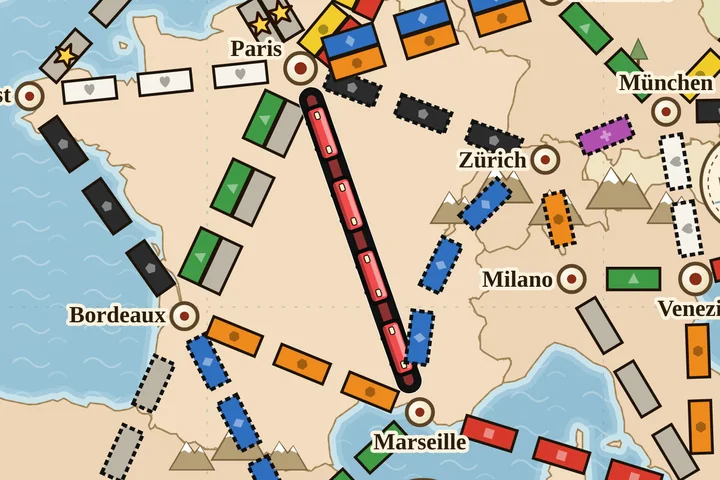
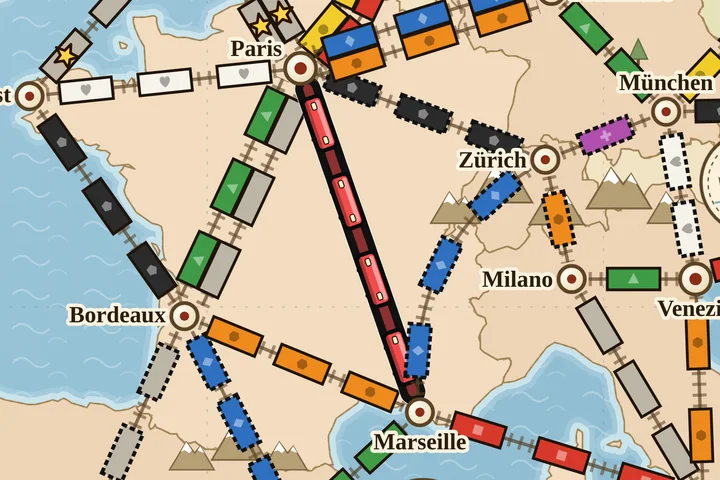
Đường Ray: tuyến nối liền từ thành phố đến thành phố (đường ray nền, ô dàn đều), chụp lại ảnh luật
Claude-Session: https://claude.ai/code/session_01C6iMujCmX6wKKq45Tr3EAE

diff --git a/games/duong-ray-chau-au/luat.html b/games/duong-ray-chau-au/luat.html
@@ -122,7 +122,7 @@ footer{text-align:center;color:#e9d6ae;font-size:14px;margin-top:10px}
 <p>Bạn và các đối thủ thi nhau xây mạng lưới đường sắt khắp châu Âu. Mỗi lượt bạn gom bài toa tàu cùng màu để chiếm các tuyến nối giữa hai thành phố, ghi điểm ngay khi chiếm. Bạn còn giữ các <b>vé hành trình</b>: nối được hai thành phố trên vé bằng tàu của mình thì cộng điểm, không nối được thì bị trừ.</p>
 <p>Bản đồ châu Âu có <b>49 thành phố</b>, 106 làn tuyến (trong đó 12 cặp đường đôi), <b>10 đường hầm</b> và <b>15 tuyến phà</b>. Tuyến dài nhất dài 5 ô.</p>
 
-<img class="shot" src="assets/rules/ui.webp?v=7" alt="Màn hình chơi Đường Ray Châu Âu" loading="lazy">
+<img class="shot" src="assets/rules/ui.webp?v=8" alt="Màn hình chơi Đường Ray Châu Âu" loading="lazy">
 <p class="cap">Màn hình chơi: người chơi ở trên, bản đồ ở giữa, bên phải là chỗ lấy bài, vé của bạn và nhật ký.</p></section><section class="box" id="thanh-phan"><h2><span class="no">2</span>Thành phần</h2>
 <div class="tw"><table class="t">
 <tr><th>Thành phần</th><th>Số lượng và công dụng</th></tr>
@@ -193,18 +193,18 @@ footer{text-align:center;color:#e9d6ae;font-size:14px;margin-top:10px}
 </ul>
 <div class="pts" style="--n:5"><div><span class="len"><i></i></span><b>1 ô</b><strong>1</strong><b>điểm</b></div><div><span class="len"><i></i><i></i></span><b>2 ô</b><strong>2</strong><b>điểm</b></div><div><span class="len"><i></i><i></i><i></i></span><b>3 ô</b><strong>4</strong><b>điểm</b></div><div><span class="len"><i></i><i></i><i></i><i></i></span><b>4 ô</b><strong>7</strong><b>điểm</b></div><div><span class="len"><i></i><i></i><i></i><i></i><i></i></span><b>5 ô</b><strong>10</strong><b>điểm</b></div></div>
 <div class="fig">
-  <div><img class="shot" src="assets/rules/claim.webp?v=7" alt="" loading="lazy"><p class="cap">Tuyến Paris–Marseille (Tím, 4 ô) đã bị chiếm: đoàn tàu của người chơi Đỏ nằm đè lên tuyến.</p></div>
+  <div><img class="shot" src="assets/rules/claim.webp?v=8" alt="" loading="lazy"><p class="cap">Tuyến Paris–Marseille (Tím, 4 ô) đã bị chiếm: đoàn tàu của người chơi Đỏ nằm đè lên tuyến.</p></div>
   <div class="vd" style="margin:0">Để chiếm tuyến Paris–Marseille màu Tím dài 4 ô, bạn đánh 3 lá Tím và 1 Đầu máy. Bạn đặt 4 toa, ghi ngay 7 điểm và còn 41 toa.
   <div class="hand"><figure class="tc sm"><img src="../../railart/cards/purple.webp" alt="Tím" loading="lazy"></figure><figure class="tc sm"><img src="../../railart/cards/purple.webp" alt="Tím" loading="lazy"></figure><figure class="tc sm"><img src="../../railart/cards/purple.webp" alt="Tím" loading="lazy"></figure><figure class="tc sm"><img src="../../railart/cards/loco.webp" alt="Đầu máy" loading="lazy"></figure></div></div>
 </div>
 <div class="fig">
-  <div><img class="shot" src="assets/rules/gray.webp?v=7" alt="" loading="lazy"><p class="cap">Tuyến xám Amsterdam–Frankfurt dài 2 ô.</p></div>
+  <div><img class="shot" src="assets/rules/gray.webp?v=8" alt="" loading="lazy"><p class="cap">Tuyến xám Amsterdam–Frankfurt dài 2 ô.</p></div>
   <div class="vd" style="margin:0">Tuyến xám Amsterdam–Frankfurt dài 2 ô trả bằng 2 lá Vàng, hoặc 2 lá Đen… miễn cùng một màu. Không được trả 1 lá Vàng + 1 lá Đen.
   <div class="hand"><span class="lbl">Được:</span><figure class="tc sm"><img src="../../railart/cards/yellow.webp" alt="Vàng" loading="lazy"></figure><figure class="tc sm"><img src="../../railart/cards/yellow.webp" alt="Vàng" loading="lazy"></figure></div></div>
 </div>
 <h4 style="margin:14px 0 4px;color:#7a1a36;font-size:19px">Đường đôi</h4>
 <div class="fig">
-  <div><img class="shot" src="assets/rules/dbl.webp?v=7" alt="" loading="lazy"><p class="cap">Đường đôi Madrid–Barcelona: hai làn song song, làn Trắng và làn Đỏ.</p></div>
+  <div><img class="shot" src="assets/rules/dbl.webp?v=8" alt="" loading="lazy"><p class="cap">Đường đôi Madrid–Barcelona: hai làn song song, làn Trắng và làn Đỏ.</p></div>
   <div><ul>
    <li>Một người <b>không được chiếm cả hai làn</b> của cùng một đường đôi.</li>
    <li>Chơi <b>2 hoặc 3 người</b>: một làn đã bị chiếm thì làn còn lại đóng với mọi người.</li>
@@ -214,7 +214,7 @@ footer{text-align:center;color:#e9d6ae;font-size:14px;margin-top:10px}
 
 <h3 id="duong-ham">Đường hầm</h3>
 <div class="fig">
-  <div><img class="shot" src="assets/rules/tunnel.webp?v=7" alt="" loading="lazy"><p class="cap">Đường hầm có viền <b>nét đứt</b>, ví dụ tuyến Barcelona–Bordeaux (Xanh dương, 3 ô).</p></div>
+  <div><img class="shot" src="assets/rules/tunnel.webp?v=8" alt="" loading="lazy"><p class="cap">Đường hầm có viền <b>nét đứt</b>, ví dụ tuyến Barcelona–Bordeaux (Xanh dương, 3 ô).</p></div>
   <div><ol>
    <li>Đánh bộ bài như chiếm tuyến thường.</li>
    <li>Máy lật <b>3 lá</b> trên cùng chồng bài úp.</li>
@@ -234,7 +234,7 @@ footer{text-align:center;color:#e9d6ae;font-size:14px;margin-top:10px}
 
 <h3 id="pha">Phà</h3>
 <div class="fig">
-  <div><img class="shot" src="assets/rules/ferry.webp?v=7" alt="" loading="lazy"><p class="cap">Tuyến phà London–Amsterdam dài 2 ô, có 2 ô in <b>ngôi sao Đầu máy</b>.</p></div>
+  <div><img class="shot" src="assets/rules/ferry.webp?v=8" alt="" loading="lazy"><p class="cap">Tuyến phà London–Amsterdam dài 2 ô, có 2 ô in <b>ngôi sao Đầu máy</b>.</p></div>
   <div><ul>
    <li>Phà là tuyến vượt biển. Mỗi ô có ngôi sao cần <b>1 lá Đầu máy</b>.</li>
    <li>Các ô còn lại trả bằng bài cùng một màu (phà luôn là tuyến xám).</li>
@@ -250,7 +250,7 @@ footer{text-align:center;color:#e9d6ae;font-size:14px;margin-top:10px}
 
 <h3 id="nha-ga">Việc 4: xây nhà ga</h3>
 <div class="fig">
-  <div><img class="shot" src="assets/rules/station.webp?v=7" alt="" loading="lazy"><p class="cap">Nhà ga Đỏ ở Lisboa. Tuyến Lisboa–Madrid là của người Xanh, hai tuyến Đỏ nằm hai bên.</p></div>
+  <div><img class="shot" src="assets/rules/station.webp?v=8" alt="" loading="lazy"><p class="cap">Nhà ga Đỏ ở Lisboa. Tuyến Lisboa–Madrid là của người Xanh, hai tuyến Đỏ nằm hai bên.</p></div>
   <div><ul>
    <li>Đặt nhà ga lên một thành phố <b>chưa có ga</b> nào. Không cần có tuyến của bạn ở đó.</li>
    <li>Giá tăng dần: ga thứ 1 tốn <b>1 lá</b>, ga thứ 2 tốn <b>2 lá cùng màu</b>, ga thứ 3 tốn <b>3 lá cùng màu</b>. Đầu máy thay được.</li>

diff --git a/games/duong-ray-bac-my/luat.html b/games/duong-ray-bac-my/luat.html
@@ -122,7 +122,7 @@ footer{text-align:center;color:#e9d6ae;font-size:14px;margin-top:10px}
 <p>Bạn và các đối thủ thi nhau xây mạng lưới đường sắt khắp Bắc Mỹ. Mỗi lượt bạn gom bài toa tàu cùng màu để chiếm các tuyến nối giữa hai thành phố, ghi điểm ngay khi chiếm. Bạn còn giữ các <b>vé hành trình</b>: nối được hai thành phố trên vé bằng tàu của mình thì cộng điểm, không nối được thì bị trừ.</p>
 <p>Bản đồ Bắc Mỹ có <b>39 thành phố</b>, 104 làn tuyến (trong đó 21 cặp đường đôi), <b>9 đường hầm</b> và <b>2 tuyến phà</b>. Tuyến dài nhất dài 7 ô.</p>
 <div class="note"><b>Khác với hộp Ticket to Ride USA gốc:</b> bản Bắc Mỹ trên web dùng chung bộ luật đầy đủ với bản Châu Âu, nên vẫn có đường hầm và phà (sang La Habana), nhưng <b>không có nhà ga</b>. Mỗi người nhận 1 vé dài và 3 vé thường lúc đầu.</div>
-<img class="shot" src="assets/rules/ui.webp?v=7" alt="Màn hình chơi Đường Ray Bắc Mỹ" loading="lazy">
+<img class="shot" src="assets/rules/ui.webp?v=8" alt="Màn hình chơi Đường Ray Bắc Mỹ" loading="lazy">
 <p class="cap">Màn hình chơi: người chơi ở trên, bản đồ ở giữa, bên phải là chỗ lấy bài, vé của bạn và nhật ký.</p></section><section class="box" id="thanh-phan"><h2><span class="no">2</span>Thành phần</h2>
 <div class="tw"><table class="t">
 <tr><th>Thành phần</th><th>Số lượng và công dụng</th></tr>
@@ -166,18 +166,18 @@ footer{text-align:center;color:#e9d6ae;font-size:14px;margin-top:10px}
 </ul>
 <div class="pts" style="--n:7"><div><span class="len"><i></i></span><b>1 ô</b><strong>1</strong><b>điểm</b></div><div><span class="len"><i></i><i></i></span><b>2 ô</b><strong>2</strong><b>điểm</b></div><div><span class="len"><i></i><i></i><i></i></span><b>3 ô</b><strong>4</strong><b>điểm</b></div><div><span class="len"><i></i><i></i><i></i><i></i></span><b>4 ô</b><strong>7</strong><b>điểm</b></div><div><span class="len"><i></i><i></i><i></i><i></i><i></i></span><b>5 ô</b><strong>10</strong><b>điểm</b></div><div><span class="len"><i></i><i></i><i></i><i></i><i></i><i></i></span><b>6 ô</b><strong>15</strong><b>điểm</b></div><div><span class="len"><i></i><i></i><i></i><i></i><i></i><i></i><i></i></span><b>7 ô</b><strong>18</strong><b>điểm</b></div></div>
 <div class="fig">
-  <div><img class="shot" src="assets/rules/claim.webp?v=7" alt="" loading="lazy"><p class="cap">Tuyến El Paso–Dallas (Vàng, 4 ô) đã bị chiếm: đoàn tàu của người chơi Đỏ nằm đè lên tuyến.</p></div>
+  <div><img class="shot" src="assets/rules/claim.webp?v=8" alt="" loading="lazy"><p class="cap">Tuyến El Paso–Dallas (Vàng, 4 ô) đã bị chiếm: đoàn tàu của người chơi Đỏ nằm đè lên tuyến.</p></div>
   <div class="vd" style="margin:0">Để chiếm tuyến El Paso–Dallas màu Vàng dài 4 ô, bạn đánh 3 lá Vàng và 1 Đầu máy. Bạn đặt 4 toa, ghi ngay 7 điểm và còn 41 toa.
   <div class="hand"><figure class="tc sm"><img src="../../railart/cards/yellow.webp" alt="Vàng" loading="lazy"></figure><figure class="tc sm"><img src="../../railart/cards/yellow.webp" alt="Vàng" loading="lazy"></figure><figure class="tc sm"><img src="../../railart/cards/yellow.webp" alt="Vàng" loading="lazy"></figure><figure class="tc sm"><img src="../../railart/cards/loco.webp" alt="Đầu máy" loading="lazy"></figure></div></div>
 </div>
 <div class="fig">
-  <div><img class="shot" src="assets/rules/gray.webp?v=7" alt="" loading="lazy"><p class="cap">Tuyến xám Phoenix–Santa Fe dài 3 ô.</p></div>
+  <div><img class="shot" src="assets/rules/gray.webp?v=8" alt="" loading="lazy"><p class="cap">Tuyến xám Phoenix–Santa Fe dài 3 ô.</p></div>
   <div class="vd" style="margin:0">Tuyến xám Phoenix–Santa Fe dài 3 ô trả bằng 3 lá Vàng, hoặc 3 lá Đen… miễn cùng một màu. Không được trả 2 lá Vàng + 1 lá Đen.
   <div class="hand"><span class="lbl">Được:</span><figure class="tc sm"><img src="../../railart/cards/yellow.webp" alt="Vàng" loading="lazy"></figure><figure class="tc sm"><img src="../../railart/cards/yellow.webp" alt="Vàng" loading="lazy"></figure><figure class="tc sm"><img src="../../railart/cards/yellow.webp" alt="Vàng" loading="lazy"></figure></div></div>
 </div>
 <h4 style="margin:14px 0 4px;color:#7a1a36;font-size:19px">Đường đôi</h4>
 <div class="fig">
-  <div><img class="shot" src="assets/rules/dbl.webp?v=7" alt="" loading="lazy"><p class="cap">Đường đôi San Francisco–Los Angeles: hai làn song song, làn Trắng và làn Đỏ.</p></div>
+  <div><img class="shot" src="assets/rules/dbl.webp?v=8" alt="" loading="lazy"><p class="cap">Đường đôi San Francisco–Los Angeles: hai làn song song, làn Trắng và làn Đỏ.</p></div>
   <div><ul>
    <li>Một người <b>không được chiếm cả hai làn</b> của cùng một đường đôi.</li>
    <li>Chơi <b>2 hoặc 3 người</b>: một làn đã bị chiếm thì làn còn lại đóng với mọi người.</li>
@@ -187,7 +187,7 @@ footer{text-align:center;color:#e9d6ae;font-size:14px;margin-top:10px}
 
 <h3 id="duong-ham">Đường hầm</h3>
 <div class="fig">
-  <div><img class="shot" src="assets/rules/tunnel.webp?v=7" alt="" loading="lazy"><p class="cap">Đường hầm có viền <b>nét đứt</b>, ví dụ tuyến Vancouver–Calgary (Cam, 3 ô).</p></div>
+  <div><img class="shot" src="assets/rules/tunnel.webp?v=8" alt="" loading="lazy"><p class="cap">Đường hầm có viền <b>nét đứt</b>, ví dụ tuyến Vancouver–Calgary (Cam, 3 ô).</p></div>
   <div><ol>
    <li>Đánh bộ bài như chiếm tuyến thường.</li>
    <li>Máy lật <b>3 lá</b> trên cùng chồng bài úp.</li>
@@ -207,7 +207,7 @@ footer{text-align:center;color:#e9d6ae;font-size:14px;margin-top:10px}
 
 <h3 id="pha">Phà</h3>
 <div class="fig">
-  <div><img class="shot" src="assets/rules/ferry.webp?v=7" alt="" loading="lazy"><p class="cap">Tuyến phà New Orleans–La Habana dài 4 ô, có 2 ô in <b>ngôi sao Đầu máy</b>.</p></div>
+  <div><img class="shot" src="assets/rules/ferry.webp?v=8" alt="" loading="lazy"><p class="cap">Tuyến phà New Orleans–La Habana dài 4 ô, có 2 ô in <b>ngôi sao Đầu máy</b>.</p></div>
   <div><ul>
    <li>Phà là tuyến vượt biển. Mỗi ô có ngôi sao cần <b>1 lá Đầu máy</b>.</li>
    <li>Các ô còn lại trả bằng bài cùng một màu (phà luôn là tuyến xám).</li>

diff --git a/games/duong-ray-bac-my/index.html b/games/duong-ray-bac-my/index.html
@@ -1903,7 +1903,7 @@ const LANDMARKS = MAP_ID==='na' ? LANDMARKS_NA : LANDMARKS_EU;
 
 /* ===== Hình học tuyến: mọi ô cùng cỡ; tuyến ngắn hoặc đi xuyên qua thành phố khác sẽ uốn cong ===== */
 const RG_BOX=34, RG_PITCH=37, RG_PAD=11;
-function rgPitch(g,len){ return Math.max(RG_PITCH, Math.min((g.d-2*RG_PAD)/len, RG_PITCH+12)); }
+function rgPitch(g,len){ return Math.max(RG_PITCH, (g.d-2*RG_PAD)/len); }
 let RG_CACHE={}, RG_KEY='';
 function rgBase(a,b,h){ /* đường cong bậc 2 từ a sang b, lệch vuông góc h tại giữa */
   const A=CITIES[a],B=CITIES[b]; const dx=B.x-A.x,dy=B.y-A.y,d=Math.hypot(dx,dy)||1; const nx=-dy/d, ny=dx/d;
@@ -2169,8 +2169,9 @@ function routeSVG(r, afford, now){
   const t=UIS.claimAt[r.id]; const el = t!=null ? now-t : 1e9; const fresh = el<2600 && G.owner[r.id]!=null;
   let s=`<g class="route ${canClick?'clickable':''} ${afford.has(r.id)?'afford':''} ${fresh?'glow':''}" data-id="${r.id}" ${fresh?`style="--gc:${G.players[owner].color};animation-delay:${-el}ms"`:''}>`;
   s+=`<path d="${g.path(pad,g.d-pad)}" fill="none" stroke="transparent" stroke-width="${HIT_W}"/>`;
+  if (owner==null){ const tp=g.path(pad-2,g.d-pad+2); s+=`<path d="${tp}" fill="none" stroke="#5b4327" stroke-width="9" stroke-dasharray="2 5" opacity=".55" pointer-events="none"/><path d="${tp}" fill="none" stroke="#5b4327" stroke-width="2.2" opacity=".7" pointer-events="none" transform="translate(0,0)"/>`; }
   const DK = .68; /* mọi đoàn tàu cùng cỡ, vừa làn đường đôi */
-  if (owner!=null){ const PT=rgPitch(g,r.len); const pd=g.path(g.d/2-(r.len*PT)/2+2, g.d/2+(r.len*PT)/2-2);
+  if (owner!=null){ const pd=g.path(pad+1, g.d-pad-1);
     s+=`<g class="${fresh?'pop':''}" pointer-events="none"><path d="${pd}" fill="none" stroke="#fff" stroke-width="17" stroke-linecap="round" opacity=".95"/><path d="${pd}" fill="none" stroke="#111" stroke-width="${(24*DK).toFixed(1)}" stroke-linecap="round"/><path d="${pd}" fill="none" stroke="${G.players[owner].color}" stroke-width="6" stroke-linecap="round" opacity=".55"/></g>`; }
   for (let i=0;i<r.len;i++){
     const tt=g.d/2+(i+0.5-r.len/2)*rgPitch(g,r.len); const q=g.at(tt); const cx=q.x.toFixed(1), cy=q.y.toFixed(1); let ga=q.ang; if(ga>90) ga-=180; if(ga<-90) ga+=180;

diff --git a/games/duong-ray-chau-au/index.html b/games/duong-ray-chau-au/index.html
@@ -1908,7 +1908,7 @@ const LANDMARKS = MAP_ID==='na' ? LANDMARKS_NA : LANDMARKS_EU;
 
 /* ===== Hình học tuyến: mọi ô cùng cỡ; tuyến ngắn hoặc đi xuyên qua thành phố khác sẽ uốn cong ===== */
 const RG_BOX=34, RG_PITCH=37, RG_PAD=11;
-function rgPitch(g,len){ return Math.max(RG_PITCH, Math.min((g.d-2*RG_PAD)/len, RG_PITCH+12)); }
+function rgPitch(g,len){ return Math.max(RG_PITCH, (g.d-2*RG_PAD)/len); }
 let RG_CACHE={}, RG_KEY='';
 function rgBase(a,b,h){ /* đường cong bậc 2 từ a sang b, lệch vuông góc h tại giữa */
   const A=CITIES[a],B=CITIES[b]; const dx=B.x-A.x,dy=B.y-A.y,d=Math.hypot(dx,dy)||1; const nx=-dy/d, ny=dx/d;
@@ -2174,8 +2174,9 @@ function routeSVG(r, afford, now){
   const t=UIS.claimAt[r.id]; const el = t!=null ? now-t : 1e9; const fresh = el<2600 && G.owner[r.id]!=null;
   let s=`<g class="route ${canClick?'clickable':''} ${afford.has(r.id)?'afford':''} ${fresh?'glow':''}" data-id="${r.id}" ${fresh?`style="--gc:${G.players[owner].color};animation-delay:${-el}ms"`:''}>`;
   s+=`<path d="${g.path(pad,g.d-pad)}" fill="none" stroke="transparent" stroke-width="${HIT_W}"/>`;
+  if (owner==null){ const tp=g.path(pad-2,g.d-pad+2); s+=`<path d="${tp}" fill="none" stroke="#5b4327" stroke-width="9" stroke-dasharray="2 5" opacity=".55" pointer-events="none"/><path d="${tp}" fill="none" stroke="#5b4327" stroke-width="2.2" opacity=".7" pointer-events="none" transform="translate(0,0)"/>`; }
   const DK = .68; /* mọi đoàn tàu cùng cỡ, vừa làn đường đôi */
-  if (owner!=null){ const PT=rgPitch(g,r.len); const pd=g.path(g.d/2-(r.len*PT)/2+2, g.d/2+(r.len*PT)/2-2);
+  if (owner!=null){ const pd=g.path(pad+1, g.d-pad-1);
     s+=`<g class="${fresh?'pop':''}" pointer-events="none"><path d="${pd}" fill="none" stroke="#fff" stroke-width="17" stroke-linecap="round" opacity=".95"/><path d="${pd}" fill="none" stroke="#111" stroke-width="${(24*DK).toFixed(1)}" stroke-linecap="round"/><path d="${pd}" fill="none" stroke="${G.players[owner].color}" stroke-width="6" stroke-linecap="round" opacity=".55"/></g>`; }
   for (let i=0;i<r.len;i++){
     const tt=g.d/2+(i+0.5-r.len/2)*rgPitch(g,r.len); const q=g.at(tt); const cx=q.x.toFixed(1), cy=q.y.toFixed(1); let ga=q.ang; if(ga>90) ga-=180; if(ga<-90) ga+=180;
